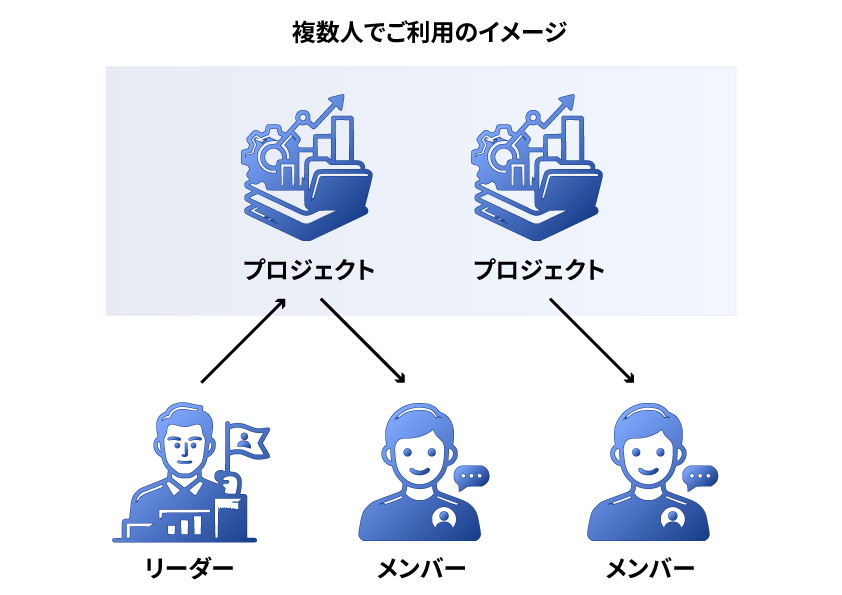
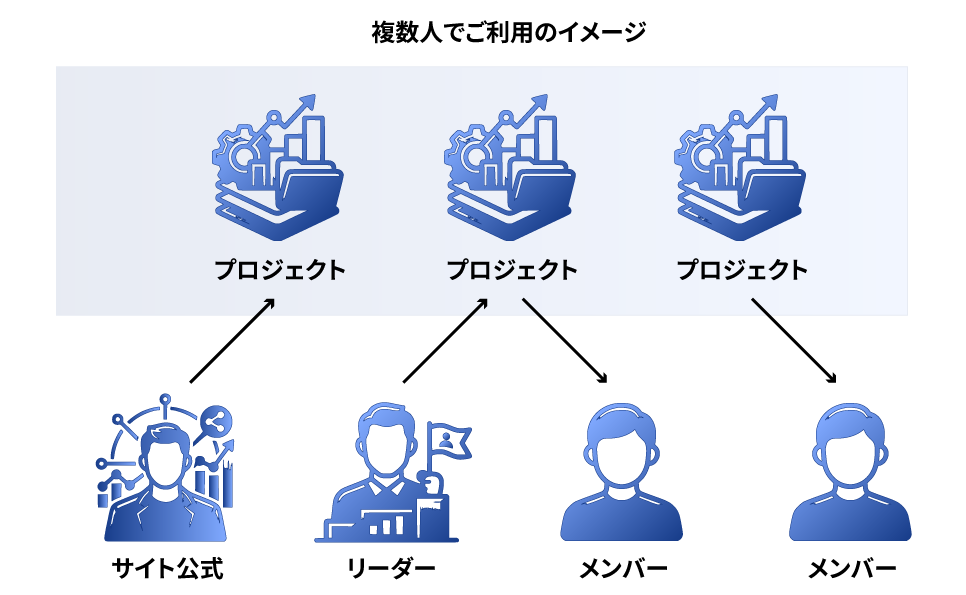
複数人でのご利用について画像の差し替え

diff --git a/content/_index.en.md b/content/_index.en.md
@@ -186,7 +186,7 @@ By using a common set of tools, you build a foundation for improving not just in
 
 We offer multi-user plans for teams and departments. The subscriber becomes the leader and can share project files with other members.
 
-{{< figure src="/images/team-plan.png" alt="Multi-user plan: the leader manages projects and members participate" >}}
+{{< figure src="/images/team-plan_en.png" alt="Multi-user plan: the leader manages projects and members participate" >}}
 
 - ✔ The subscriber (leader) shares projects with the team
 - ✔ Members can independently edit and save shared projects
